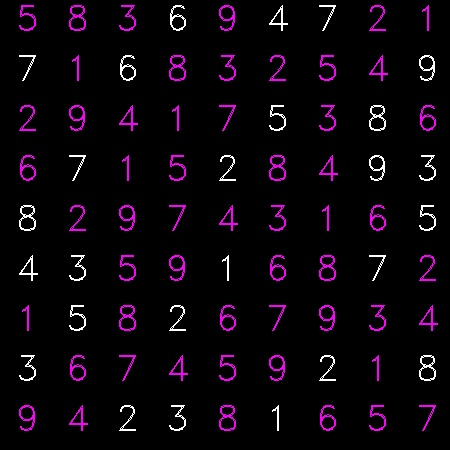
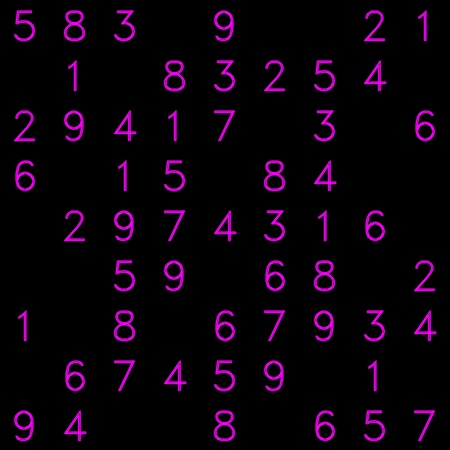
put the answers down on the original puzzle image

diff --git a/Extractor.py b/Extractor.py
@@ -114,6 +114,43 @@ class Extractor:
         self._write_images(corrected, 8)
         self.image = corrected
 
+    def reverse_perspective(self, img):
+        # Similar to correct_respective, but inverse
+        blank = np.zeros((self.original.shape[0], self.original.shape[1], 3), np.uint8)
+
+        for i in range(100):
+            r = i // 10
+            c = i % 10
+
+            if c == 9 or r == 9: continue
+
+            c1 = self.centroids[i]
+            c2 = self.centroids[i+1]
+            c3 = self.centroids[i+10]
+            c4 = self.centroids[i+11]
+            
+            src = np.array([[50*c, 50*r], [50*c+50, 50*r], [50*c, 50*r+50], [50*c+50, 50*r+50]], dtype=np.float32)
+            dst = np.array([c1, c2, c3, c4], dtype=np.float32)
+            mat = cv2.getPerspectiveTransform(src, dst)
+            warp = cv2.warpPerspective(img, mat, (self.original.shape[1], self.original.shape[0]))
+
+            top_left_x = min([c1[1], c3[1]])
+            top_left_y = min([c1[0], c3[0]])
+            bot_right_x = max([c2[1], c4[1]])
+            bot_right_y = max([c2[0], c4[0]])
+
+            blank[top_left_x:bot_right_x, top_left_y:bot_right_y] = warp[top_left_x:bot_right_x, top_left_y:bot_right_y]
+
+        gray = cv2.cvtColor(blank,cv2.COLOR_BGR2GRAY)
+        ret, mask = cv2.threshold(gray, 40, 255, cv2.THRESH_BINARY)
+        fg = cv2.bitwise_and(blank, blank, mask=mask)
+
+        mask_inv = cv2.bitwise_not(mask)
+        bg = cv2.bitwise_and(self.original, self.original, mask=mask_inv)
+        result = cv2.add(fg, bg)
+
+        self._write_images(result, 11)
+
     def _write_images(self, img, i):
         try: os.remove(f"StageImages/{i}.jpg")
         except: pass

diff --git a/Solver.py b/Solver.py
@@ -41,9 +41,8 @@ class Solver:
         image_results = np.zeros((450, 450, 3), np.uint8)
         for y, row in enumerate(self.results):
             for x, digit in enumerate(row):
-                if digit == 0:
-                    cv2.putText(image_results, str(self.arr[y][x]), (x*50+15, y*50+30), cv2.FONT_HERSHEY_DUPLEX, 1.2, (255, 255, 255))
-                else: cv2.putText(image_results, str(digit), (x*50+15, y*50+30), cv2.FONT_HERSHEY_DUPLEX, 1.2, (255, 0, 255))
+                if digit == 0: continue
+                else: cv2.putText(image_results, str(digit), (x*50+10, y*50+40), cv2.FONT_HERSHEY_DUPLEX, 1.4, (255, 0, 255), lineType=cv2.LINE_AA)
         
         self._write_images(image_results, 10)
         self.image = image_results

diff --git a/Recognizer.py b/Recognizer.py
@@ -60,7 +60,7 @@ class Recognizer:
         for y, row in enumerate(results):
             for x, digit in enumerate(row):
                 if digit == 0: continue
-                cv2.putText(image_results, str(digit), (x*50+15, y*50+30), cv2.FONT_HERSHEY_DUPLEX, 1.2, (255, 255, 255))
+                cv2.putText(image_results, str(digit), (x*50+10, y*50+40), cv2.FONT_HERSHEY_DUPLEX, 1.4, (255, 255, 255), lineType=cv2.LINE_AA)
         
         self._write_images(image_results, 9)
         self.image = image_results

diff --git a/main.py b/main.py
@@ -19,3 +19,4 @@ solver = Solver(recognizer.results)
 
 solver.check_validity()
 solver.solve_puzzle()
+extractor.reverse_perspective(solver.image)
